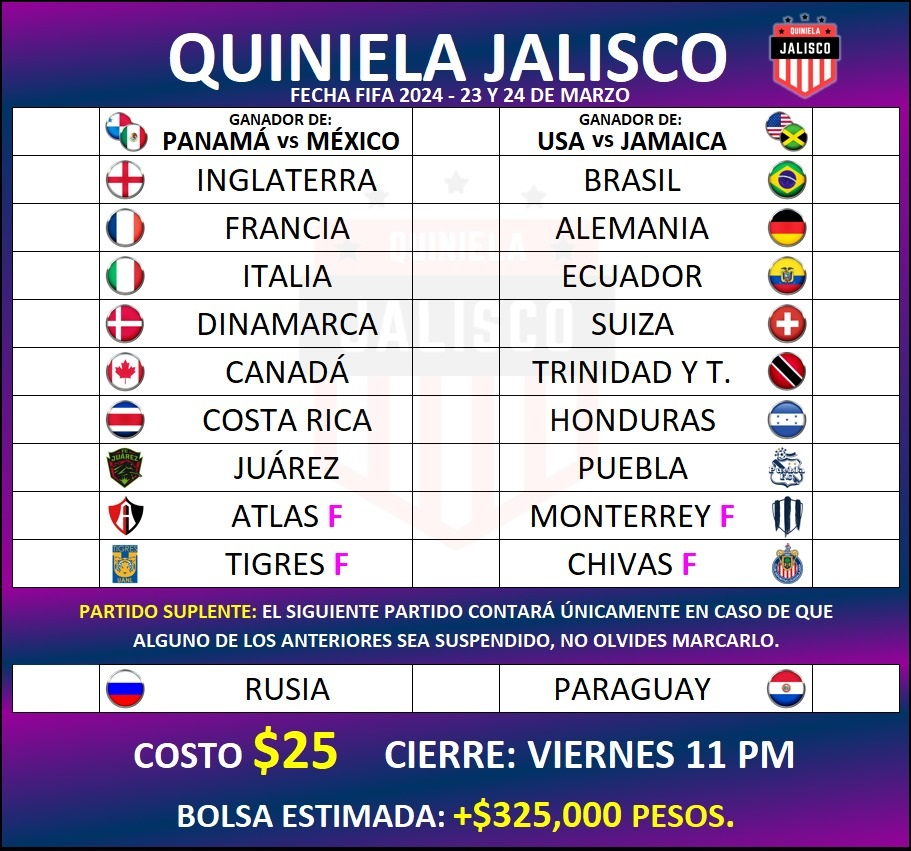
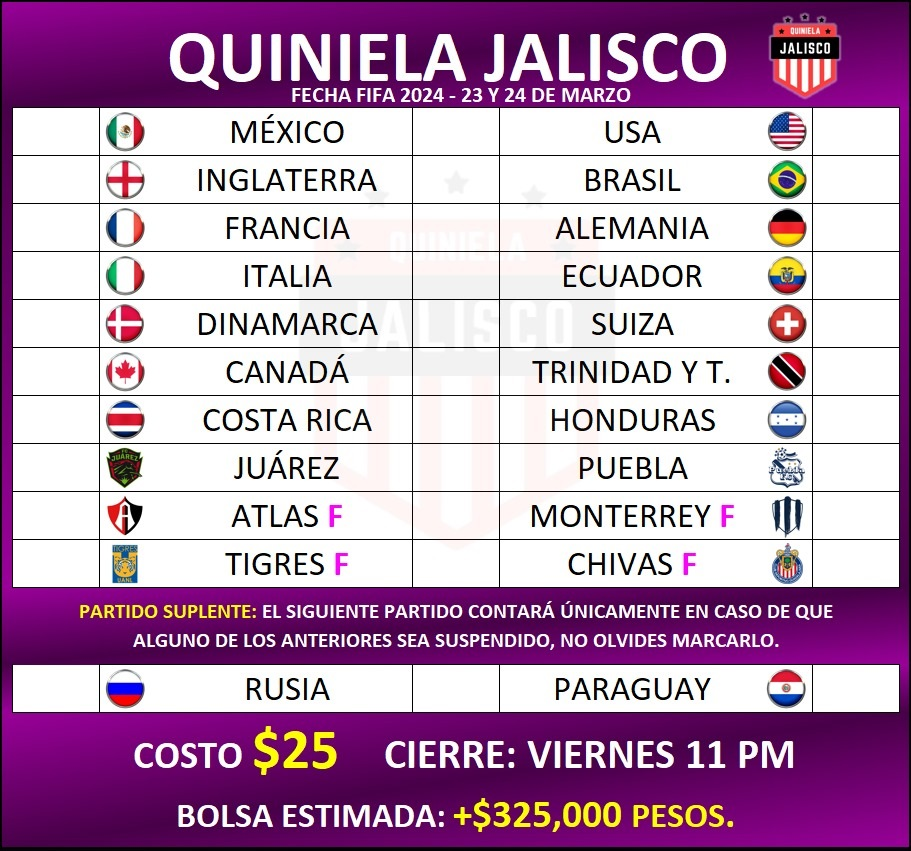
Fecha Fifa Marzo V2

diff --git a/11/styles11.css b/11/styles11.css
@@ -95,8 +95,8 @@ body{
     margin-top: 8.5%;
     border-top: solid 1px black;
     border-radius: 0 0 14px 14px;
-    background: -webkit-linear-gradient(0.98turn, rgb(119 12 142) -7%, rgb(26 42 111) 80%, rgb(94 20 133) 148%);
-    background: linear-gradient(0.98turn, rgb(119 12 142) -7%, rgb(26 42 111) 80%, rgb(94 20 133) 148%);
+    background: -webkit-linear-gradient(0.98turn, rgb(119 12 142) -7%, rgb(81 0 81) 80%, rgb(94 20 133) 148%);
+    background: linear-gradient(0.98turn, rgb(119 12 142) -7%, rgb(81 0 81) 80%, rgb(94 20 133) 148%);
 }
 
 .text-lg{
